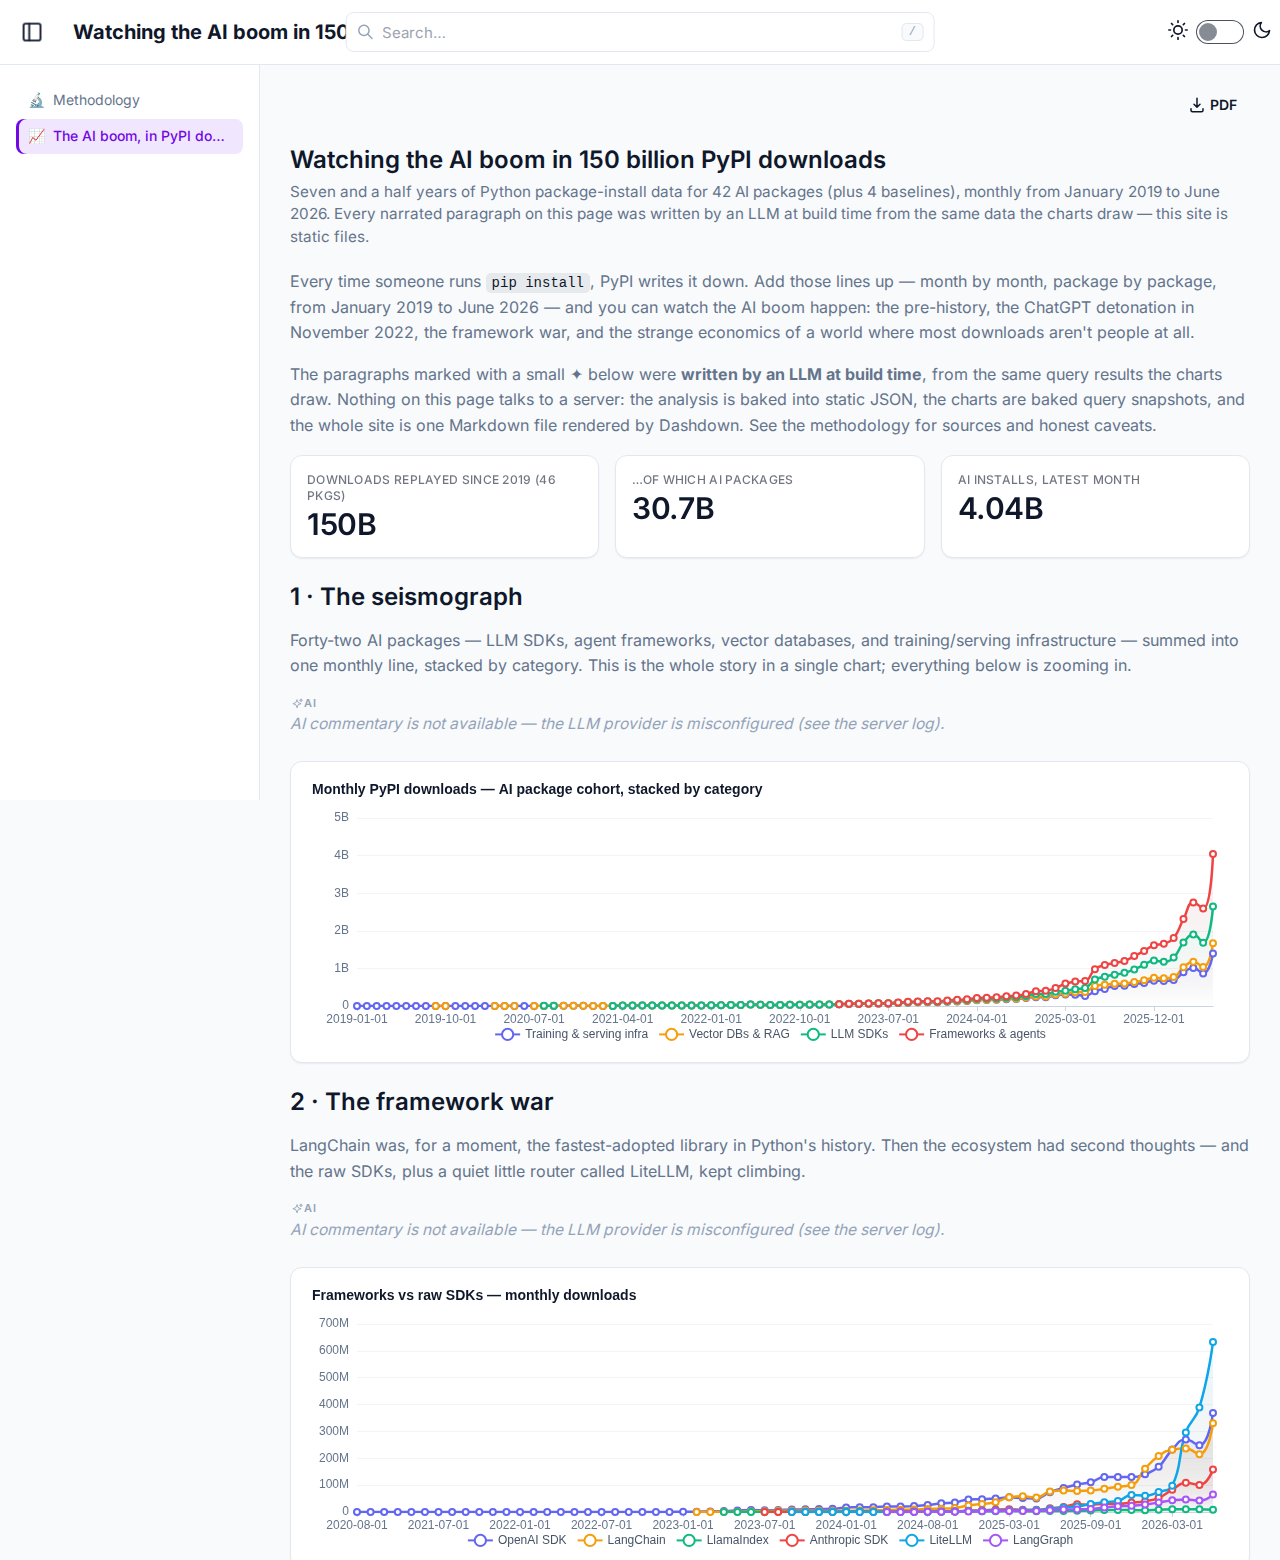
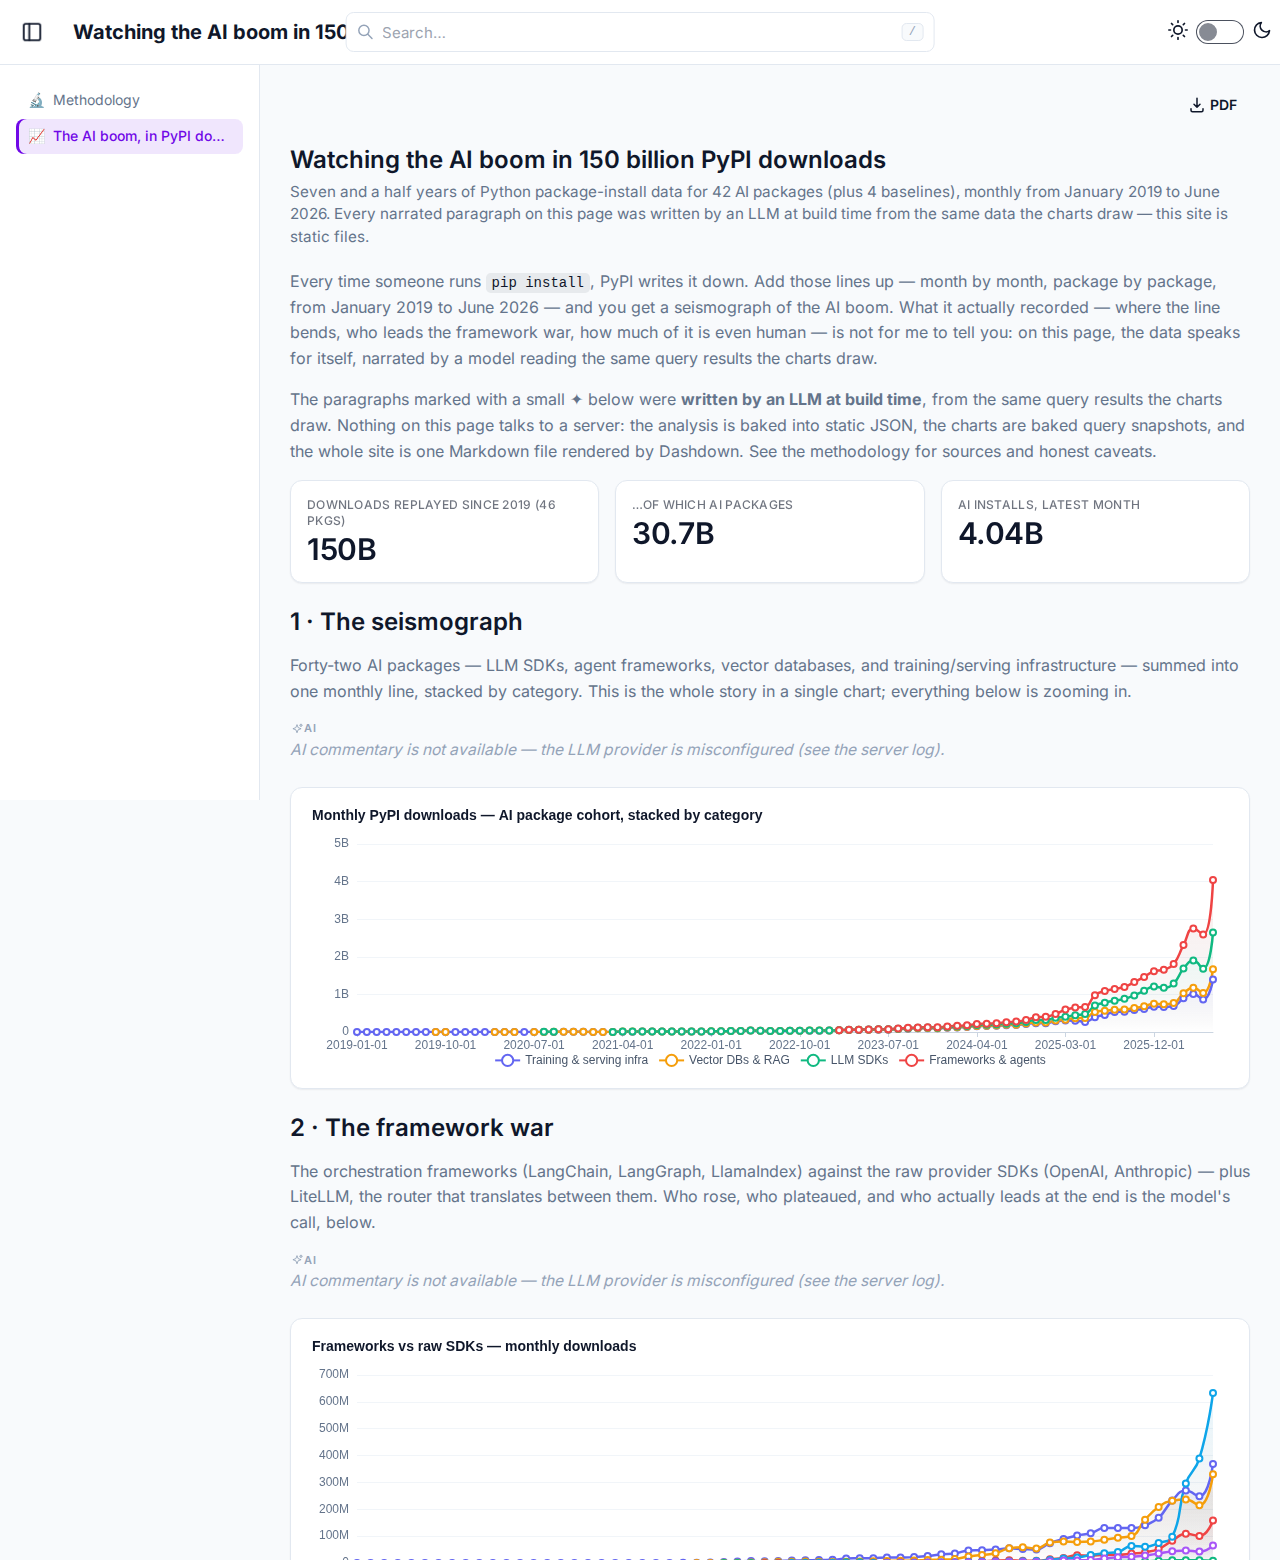
Leave all data claims to the Ask narration; authored prose only sets scenes
The page's own prose no longer states findings (LangChain's rise,
LiteLLM's lead, the hype gap, boto3's volume) — sections now frame the
question and hand the verdict to the baked <Ask> commentary. Prompts no
longer hard-code numbers or presuppose conclusions either, so they stay
correct when the data refreshes: the model derives leaders, extremes,
and magnitudes from the query results it is given.

Claude-Session: https://claude.ai/code/session_01AvLCkqBx2CVRgnDcN6YxGF

Changed region(s): [[0.2188, 0.1846, 0.9688, 0.5538], [0.2188, 0.5538, 0.9688, 1.0]]

diff --git a/pages/index.md b/pages/index.md
@@ -11,10 +11,11 @@ icon: "📈"
 # Watching the AI boom in 150 billion PyPI downloads
 
 Every time someone runs `pip install`, PyPI writes it down. Add those lines up —
-month by month, package by package, from January 2019 to June 2026 — and you can
-watch the AI boom happen: the pre-history, the ChatGPT detonation in November
-2022, the framework war, and the strange economics of a world where most
-downloads aren't people at all.
+month by month, package by package, from January 2019 to June 2026 — and you get
+a seismograph of the AI boom. What it actually recorded — where the line bends,
+who leads the framework war, how much of it is even human — is not for me to
+tell you: on this page, the data speaks for itself, narrated by a model reading
+the same query results the charts draw.
 
 The paragraphs marked with a small ✦ below were **written by an LLM at build
 time**, from the same query results the charts draw. Nothing on this page talks
@@ -84,9 +85,10 @@ concrete numbers from the data. Do not use bullet points.
 
 ## 2 · The framework war
 
-LangChain was, for a moment, the fastest-adopted library in Python's history.
-Then the ecosystem had second thoughts — and the raw SDKs, plus a quiet little
-router called LiteLLM, kept climbing.
+The orchestration frameworks (LangChain, LangGraph, LlamaIndex) against the raw
+provider SDKs (OpenAI, Anthropic) — plus LiteLLM, the router that translates
+between them. Who rose, who plateaued, and who actually leads at the end is the
+model's call, below.
 
 ```sql framework_war
 SELECT p.month, c.label AS package, p.downloads
@@ -110,7 +112,7 @@ points, no headings.
 
 <LineChart data={framework_war} x="month" y="downloads" series="package"
            title="Frameworks vs raw SDKs — monthly downloads"
-           explain="Mark where LangChain's growth is overtaken, and where LiteLLM's late surge begins. How much of LiteLLM's lead was built in just the final quarter of the series?" />
+           explain="Mark any points where the lead changes hands in this series, and identify when the current leader's advantage was built. Is the leader's recent growth gradual or concentrated in the final months?" />
 
 ## 3 · The compute tell
 
@@ -143,12 +145,13 @@ someone else's GPUs rather than running their own. Use concrete numbers.
 ## 4 · Most of these downloads are robots
 
 Time for the honest part. A PyPI "download" is an HTTP request for a package
-file — from a human at a laptop, but far more often from a CI pipeline
-reinstalling the world on every commit, a Docker build, a lockfile resolver, or
-a cloud region warming its cache. The public stats can't cleanly separate them,
-and this dataset (monthly top-N snapshots — see [methodology](/methodology))
-carries no installer breakdown at all. So calibrate: here is the AI boom next
-to the packages that computers install because other computers told them to.
+file — it can come from a human at a laptop, a CI pipeline reinstalling the
+world on every commit, a Docker build, a lockfile resolver, or a cloud region
+warming its cache. The public stats can't cleanly separate them, and this
+dataset (monthly top-N snapshots — see [methodology](/methodology)) carries no
+installer breakdown at all. So instead of pretending otherwise, calibrate: the
+latest month's AI packages next to the workhorse baselines, and the model's
+read on what that comparison does to the word "download".
 
 ```sql scale_check
 SELECT c.label AS package,
@@ -163,27 +166,29 @@ ORDER BY p.downloads DESC
 ```
 
 <Ask data={scale_check} inline>
-Write one short, slightly wry paragraph. boto3's ~3.5 billion monthly downloads
-are overwhelmingly machines — CI pipelines, Docker builds, autoscaling fleets —
-not humans typing pip install. Use that as the calibration to interpret the AI
-packages in this data: what does it mean that litellm and openai now sit in
-the same order of magnitude as requests and numpy? Make the point that
-download counts measure how often software is *run by machines*, which is
-arguably the more honest measure of production adoption — while conceding we
-cannot know how many humans are behind them. Concrete numbers, no bullets.
+Write one short, slightly wry paragraph. Start from whichever baseline package
+tops this data: its monthly download count is overwhelmingly machines — CI
+pipelines, Docker builds, autoscaling fleets — not humans typing pip install.
+Use that as the calibration to interpret the AI packages here: where do they
+now sit relative to the workhorse baselines like requests and numpy, and what
+does that imply? Make the point that download counts measure how often
+software is *run by machines*, which is arguably the more honest measure of
+production adoption — while conceding we cannot know how many humans are
+behind them. Concrete numbers from the data, no bullets.
 </Ask>
 
 <BarChart data={scale_check} x="package" y="downloads" series="kind" horizontal
           title="Latest month: AI packages vs infrastructure baselines"
-          explain="boto3 is the AWS SDK — nobody hand-installs it 3.5 billion times a month; that volume is CI, Docker builds, and machines. Given that calibration, what do the AI packages' positions on this chart imply about how much of their volume is automated too?" />
+          explain="boto3 is the AWS SDK — nobody hand-installs it billions of times a month; that volume is CI, Docker builds, and machines. Given that calibration, what do the AI packages' positions on this chart imply about how much of their volume is automated too?" />
 
 ## 5 · Hype vs. usage
 
-GitHub stars are applause; `pip install` is attendance. Some projects fill both
-halls. Others — llama.cpp, Ollama, AutoGPT — are among the most-starred
-repositories on Earth while their Python packages barely register next to the
-boring workhorses. (Star history here covers each repo only while it sits in a
-GitHub top-100 list; that's exactly the population hype is about.)
+GitHub stars are applause; `pip install` is attendance. Below: the star curves
+of the era's most-hyped repositories, then each repo's stars paired with what
+its Python package actually does on PyPI in the latest month. Whether applause
+and attendance agree — and where they diverge most — is the model's verdict.
+(Star history covers each repo only while it sits in a GitHub top-100 list;
+that's exactly the population hype is about.)
 
 ```sql stars
 SELECT month, repo, cumulative_stars
@@ -222,12 +227,11 @@ ORDER BY installs_per_star DESC
 <Ask data={hype_gap,stars} inline>
 This data pairs each repo's GitHub stars with its Python package's monthly
 PyPI downloads (latest month), plus installs-per-star. Write one short
-paragraph on the gap: llama.cpp and Ollama are two of the most-starred projects
-in the world, yet their Python bindings are dwarfed by langchain and
-transformers installs. Offer the honest explanations — people run Ollama and
-llama.cpp as apps or binaries, not via pip, so PyPI under-counts them; and
-stars measure enthusiasm while installs measure automation. Note which project
-has the most extreme stars-to-installs imbalance, with numbers.
+paragraph answering: are the most-starred projects also the most-installed?
+Name the projects at the two extremes of installs-per-star, with numbers. Then
+offer the honest explanations for the gap — some projects are used as apps or
+binaries rather than via pip, so PyPI under-counts them; and stars measure
+enthusiasm while installs measure automation.
 </Ask>
 
 <Table data={hype_gap} title="Stars vs installs, latest month"